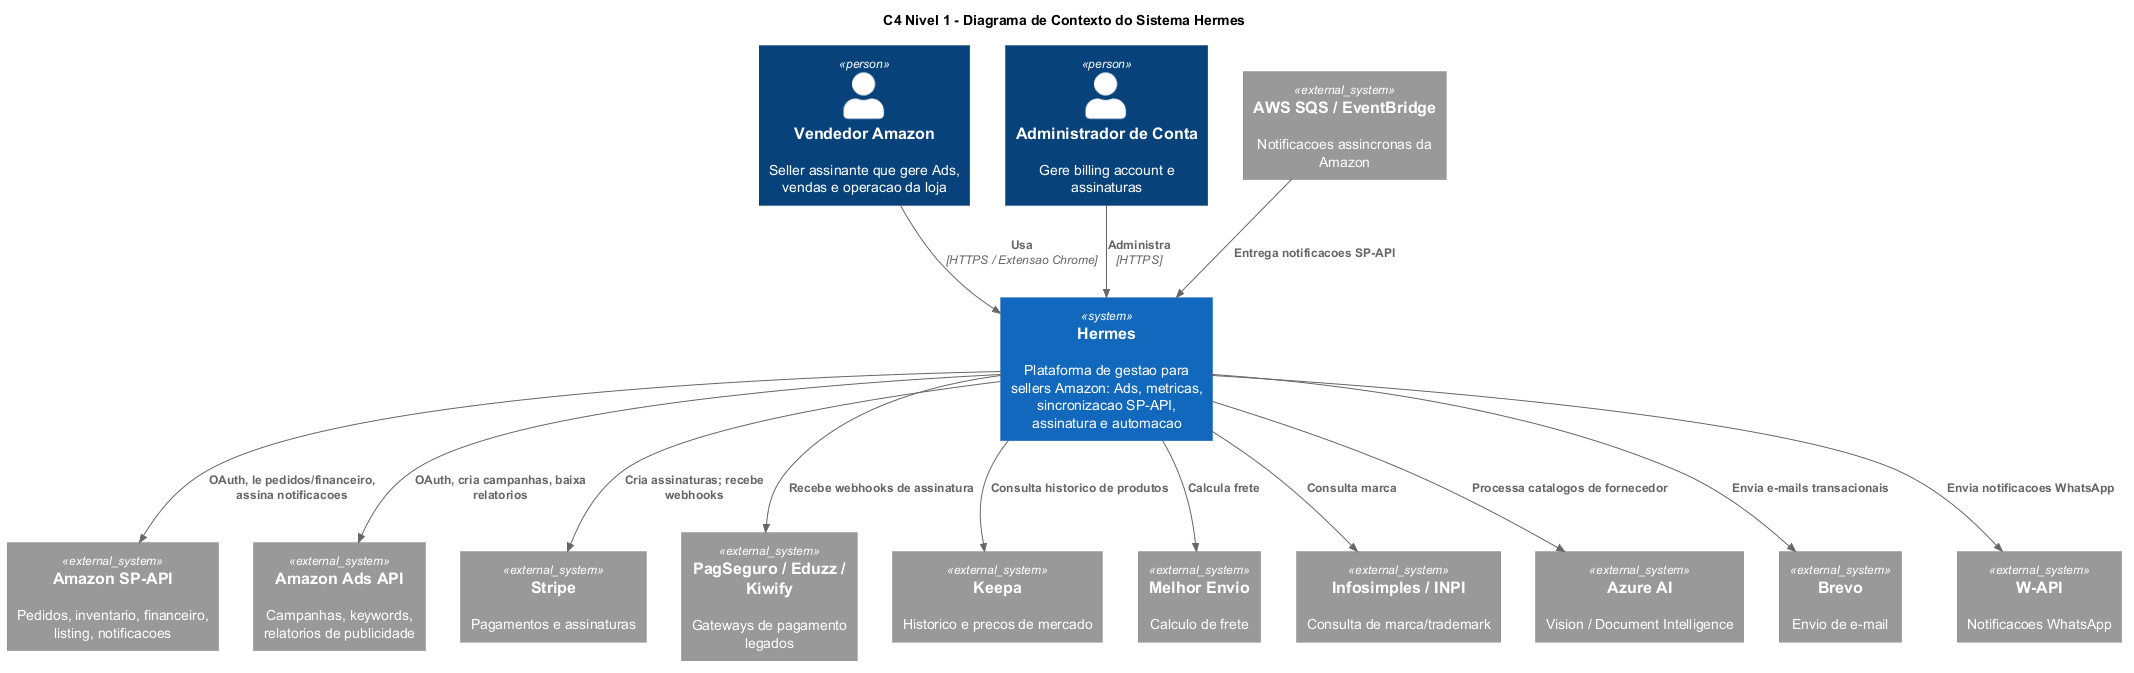
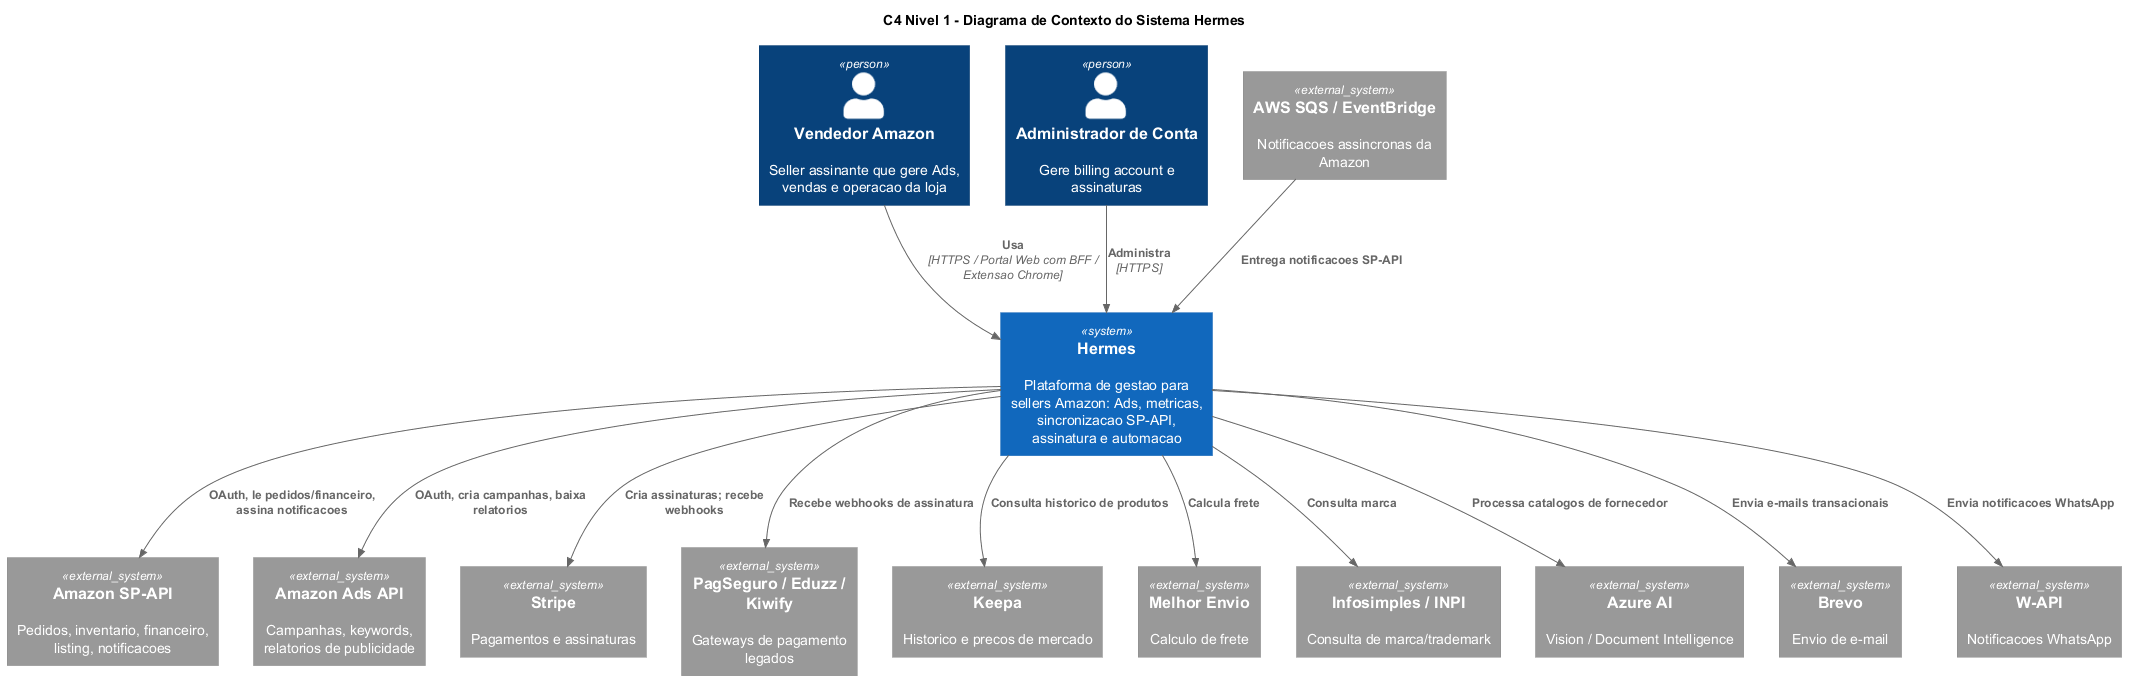
docs: modela BFF do portal nos diagramas

diff --git a/docs/Documentacao-de-Projeto.md b/docs/Documentacao-de-Projeto.md
@@ -331,6 +331,10 @@ O Hermes adota **Monólito Modular + Clean Architecture + CQRS + Outbox**.
   (`IEventBus` → `InMemoryEventBus`) na mesma transação do dado, e republicados de forma
   assíncrona pelo `OutBoxWorker` via `IMediator.Publish`. Garante entrega confiável de
   eventos (atomicidade dado+evento) sem acoplar os módulos a um broker síncrono.
+- **BFF no Portal Web:** o front-end Next.js expõe rotas internas `/api/*` mapeadas por
+  `BFF_ENDPOINTS`. Essas rotas executam no servidor, validam a sessão com NextAuth,
+  adicionam o token JWT e encaminham as requisições para a API Host. Assim, a interface
+  React não precisa expor diretamente a URL interna da API nem detalhes de autenticação.
 
 #### C4 — Nível 1 (Contexto)
 
@@ -356,7 +360,7 @@ System_Ext(azure, "Azure AI", "Vision / Document Intelligence")
 System_Ext(brevo, "Brevo", "Envio de e-mail")
 System_Ext(wapi, "W-API", "Notificacoes WhatsApp")
 
-Rel(seller, hermes, "Usa", "HTTPS / Extensao Chrome")
+Rel(seller, hermes, "Usa", "HTTPS / Portal Web com BFF / Extensao Chrome")
 Rel(admin, hermes, "Administra", "HTTPS")
 Rel(hermes, spapi, "OAuth, le pedidos/financeiro, assina notificacoes")
 Rel(hermes, ads, "OAuth, cria campanhas, baixa relatorios")
@@ -382,7 +386,8 @@ title C4 Nivel 2 - Diagrama de Container do Sistema Hermes
 Person(seller, "Vendedor Amazon", "Seller assinante")
 
 System_Boundary(hermes, "Hermes") {
-  Container(spa, "Portal Web", "Next.js 15 + React 19 + TypeScript + pnpm", "Portal do seller: dashboards de Ads, conexao de loja, assinatura")
+  Container(spa, "Portal Web UI", "Next.js 15 + React 19 + TypeScript + pnpm", "Interface do seller: dashboards de Ads, conexao de loja, assinatura")
+  Container(bff, "BFF do Portal", "Next.js API Routes + NextAuth", "Rotas /api/* validam sessao, ocultam URL interna e adicionam JWT server-side")
   Container(ext, "Extensao Chrome", "React 19 + TypeScript + Vite 6 + pnpm/Turbo", "Side panel, graficos na pagina de produto, cards de busca, calculadora e tarifas")
   Container(api, "API Host", "ASP.NET Core 9 (Monolito Modular)", "Controllers + MediatR (CQRS) + 9 modulos + workers internos")
   Container(outbox, "Worker Outbox", ".NET Worker", "Processa out.OutBoxMessages e republica eventos")
@@ -400,7 +405,8 @@ System_Ext(stripe, "Stripe", "")
 
 Rel(seller, spa, "Usa", "HTTPS")
 Rel(seller, ext, "Usa", "HTTPS")
-Rel(spa, api, "Chama", "JSON/HTTPS")
+Rel(spa, bff, "Chama", "JSON/HTTPS /api/*")
+Rel(bff, api, "Proxy autenticado", "JSON/HTTPS + Bearer JWT")
 Rel(ext, api, "Chama", "JSON/HTTPS")
 Rel(api, sqlcentral, "Le/escreve", "EF Core")
 Rel(api, sqltenant, "Le/escreve por tenant", "EF Core")
@@ -422,8 +428,15 @@ Rel(keepaw, rabbit, "Publica", "AMQP")
 
 ```plantuml
 @startuml componentes
-title Diagrama de Componentes - API Host (Monolito Modular)
+title Diagrama de Componentes - Portal BFF + API Host
 skinparam componentStyle rectangle
+
+package "Portal Web (Next.js)" {
+  [React UI] as P_UI
+  [BFF_ENDPOINTS (/api/*)] as P_ENDPOINTS
+  [API Routes] as P_ROUTES
+  [NextAuth / Session] as P_AUTH
+}
 
 package "Host (Presentation)" {
   [Controllers] as CTRL
@@ -457,6 +470,11 @@ database "SQL Server\n(Central + Modulos)" as DBC
 database "SQL Server\n(Tenant por loja)" as DBT
 database "Redis" as REDIS
 queue "RabbitMQ" as RMQ
+
+P_UI --> P_ENDPOINTS : fetch /api/*
+P_ENDPOINTS --> P_ROUTES
+P_ROUTES --> P_AUTH : valida sessao
+P_ROUTES --> CTRL : HTTPS + Bearer JWT
 
 CTRL --> M_USERS : MediatR Send
 CTRL --> M_PAY : MediatR Send

diff --git a/README.md b/README.md
@@ -108,7 +108,11 @@ O Hermes é um **Monólito Modular** com **Clean Architecture** por módulo, **C
 (MediatR) e padrão **Outbox** para eventos de integração. São nove módulos
 (`Usuarios`, `Payments`, `GatewayPay`, `Stores`, `Products`, `ExtensaoAPI`, `Planner`,
 `Keepa`, `OutBox`) com bancos separados, mais uma estratégia **multi-tenant
-banco-por-loja** para os dados operacionais de cada vendedor.
+banco-por-loja** para os dados operacionais de cada vendedor. No front-end do Portal,
+o Next.js também atua como **BFF (Backend for Frontend)**: a interface chama rotas
+`/api/*` do próprio Portal, que validam a sessão, anexam o token no servidor e
+repassam a chamada para a API Host, evitando expor a URL interna e regras de
+integração diretamente no navegador.
 
 **Exemplos de diagramas** (fontes em PlantUML em [`docs/diagramas/`](docs/diagramas) e imagens em [`docs/imagens/`](docs/imagens)):
 